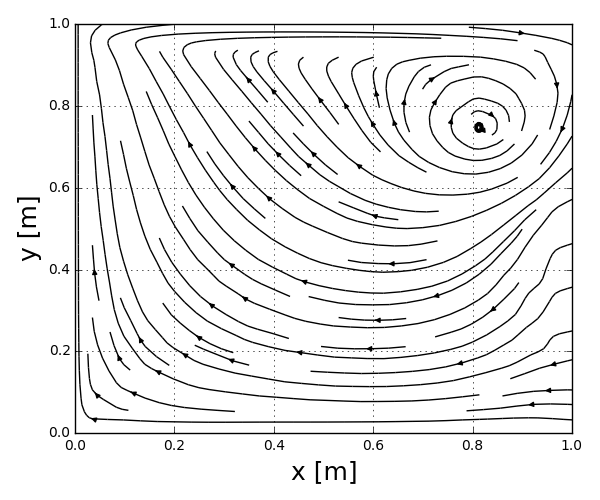
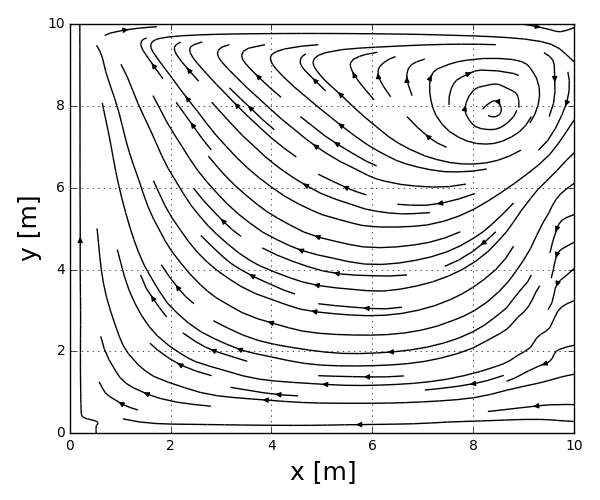
added new

Changed region(s): [[0.06, 0.03, 0.99, 0.9], [0.48, 0.93, 0.6, 0.96]]

diff --git a/src/functions/timeIntegrate.py b/src/functions/timeIntegrate.py
@@ -12,6 +12,7 @@ def timeIntegrate(inputDict):
    beta    = float(inputDict['Beta'])
    residualMin = float(inputDict['residualMin'])
    nIterWrite  = int(inputDict['nIterWrite'])
+   nOrderTime  = int(inputDict['nOrderTime'])
 
    # initialize residual variables for p, u, and v
    residualInit = np.zeros(3)
@@ -43,17 +44,18 @@ def timeIntegrate(inputDict):
       updateQvector(inputDict, dt)
 
       # update primative vector U
-      for j in range(jmax):
-         for i in range(imax):
-            flowVars.p[i,j] += dt * FDM.Q[0][i,j]
-            flowVars.u[i,j] += dt * FDM.Q[1][i,j]
-            flowVars.v[i,j] += dt * FDM.Q[2][i,j]
+      if nOrderTime == 1:
+         for j in range(jmax):
+            for i in range(imax):
+               flowVars.p[i,j] += dt * FDM.Q[0][i,j]
+               flowVars.u[i,j] += dt * FDM.Q[1][i,j]
+               flowVars.v[i,j] += dt * FDM.Q[2][i,j]
 
       # compute residual value to verify convergence
       residual = computeResidual(imax, jmax, dt, FDM.Q)
       if nIter == 1:
          residualInit = residual
-      # only track residual for u-velocity
+      # trace residual for u-velocity
       resNorm = residual[1] / residualInit[1]
 
       t += dt
@@ -61,9 +63,17 @@ def timeIntegrate(inputDict):
       print "|- nIter = %s" % nIter, ", dt = %.4f" % dt, ", Maximum Mach_x = %.4f" % MachX, ", Maximum Mach_y = %.4f" % MachY, ", u-residual = %.4f" % resNorm
 
       if (nIter % nIterWrite == 0):
+         dimensionalize(inputDict, 1, 1)
          plotStreamLine(domainVars.x, domainVars.y, flowVars.u, flowVars.v, nIter)
+         plotContour(domainVars.x, domainVars.y, flowVars.u, flowVars.v, nIter)
+         nondimensionalize(inputDict, 1, 1)
 
       if (nIter >= maxIter or resNorm <= residualMin): break
+
+   #
+   # time elapsed:
+   elapsedTime = (time.clock() - start)
+   print "## Elapsed time: ", elapsedTime
 
    # Dimensionalize flow and domain variables
    dimensionalize(inputDict, 1, 1)

diff --git a/src/functions/post.py b/src/functions/post.py
@@ -2,19 +2,28 @@ import numpy as np
 import matplotlib.pyplot as plt
 import csv
 
-def plotContour(x,y,phi,phiMin,phiMax,pltFile):
+def plotContour(x,y,U,V,nIter):
    from matplotlib import mlab, cm
    cmap = cm.PRGn
-   
-   xi, yi = np.meshgrid(x, y)
-   zi = np.swapaxes(phi,1,0)
 
-   nLevels = 10
-   dPhi = (phiMax - phiMin) / nLevels
-   levels = np.arange(phiMin, phiMax*1.001, dPhi)
+   pltFile = 'contour_vel_%5.5d.png' % int(nIter)
+   x = np.asarray(x)
+   y = np.asarray(y)
+   #U = np.swapaxes(U,1,0)
+   #V = np.swapaxes(V,1,0)
+   #xi, yi = np.meshgrid(x, y)
+   #zi = np.swapaxes(phi,1,0)
 
-   plt.contour(xi,yi,zi,levels)
-   #plt.imshow(zi, vmin=phiMin, vmax=phiMax, extent=[x.min(), x.max(), y.min(), y.max()])
+   Umag = np.sqrt( U ** 2 + V ** 2 )
+   Umag = np.swapaxes(Umag,0,-1)
+   phiMin = Umag.min()
+   phiMax = Umag.max()
+   #nLevels = 10
+   #dPhi = (phiMax - phiMin) / nLevels
+   #levels = np.arange(phiMin, phiMax*1.001, dPhi)
+
+   #plt.contour(xi,yi,zi,levels)
+   plt.imshow(Umag, vmin=phiMin, vmax=phiMax, extent=[x.min(), x.max(), y.min(), y.max()])
    plt.colorbar()
 
    plt.xscale('linear')

diff --git a/src/functions/variables.py b/src/functions/variables.py
@@ -14,6 +14,9 @@ class flowVars:
    p = []       # kinematic pressure: used for both dimensional and non-dimensional forms
    u = []       # u velocity: used for both dimensional and non-dimensional forms
    v = []       # v velocity: used for both dimensional and non-dimensional forms
+   po = []
+   uo = []
+   vo = []
    Umag = []    # velocity magnitude
 
 class FDM:
